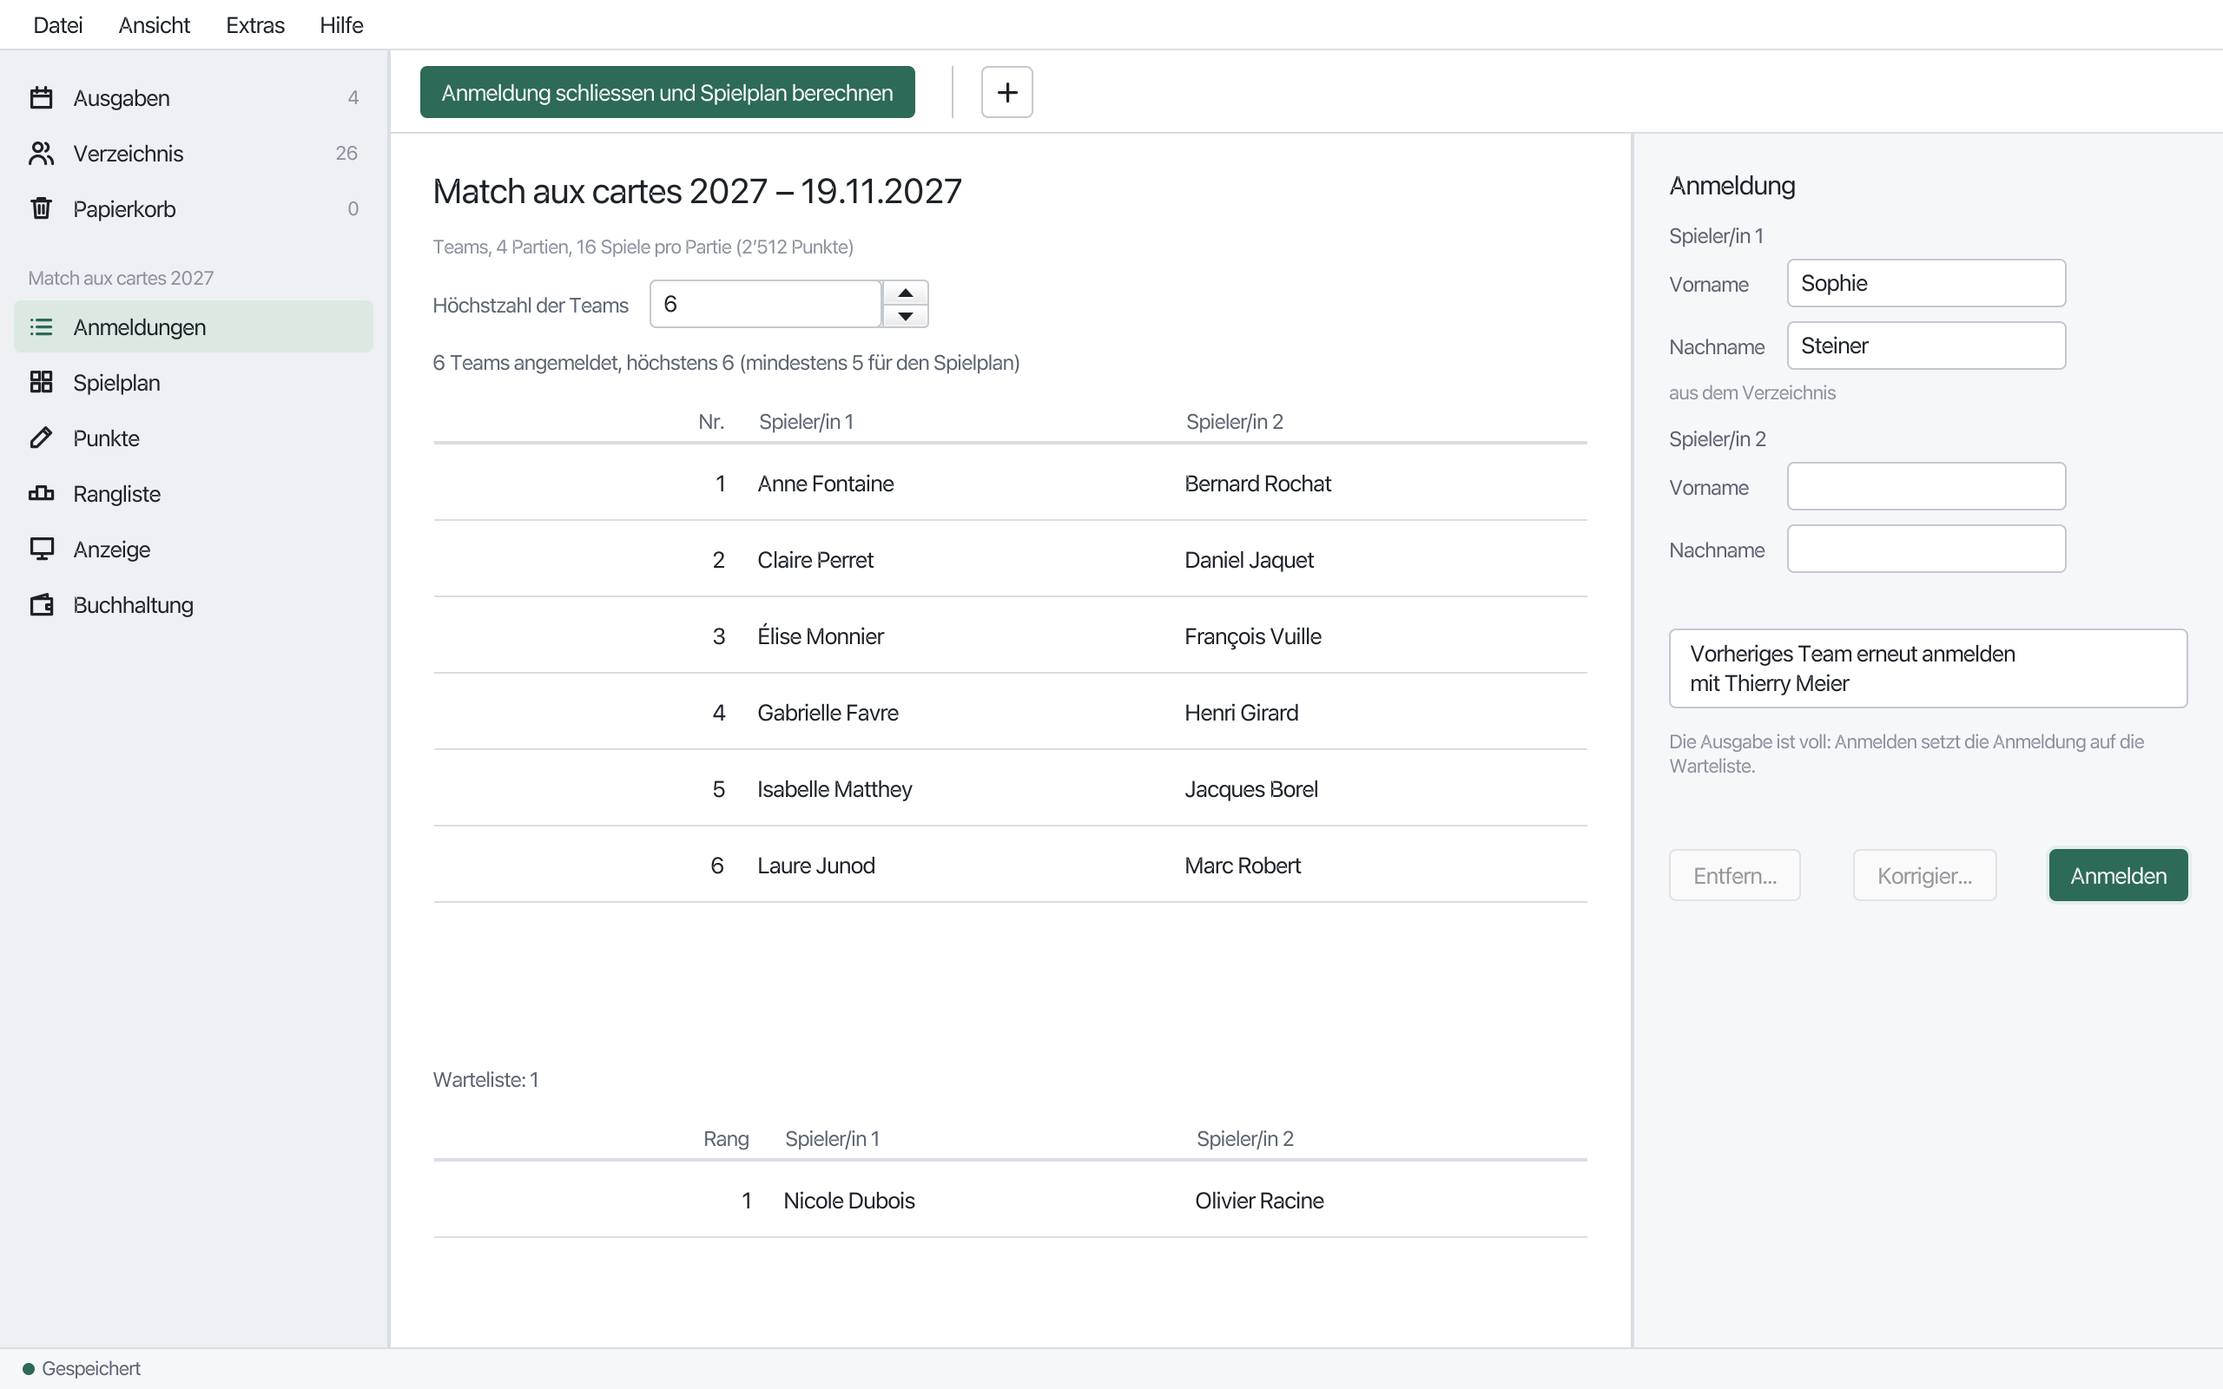
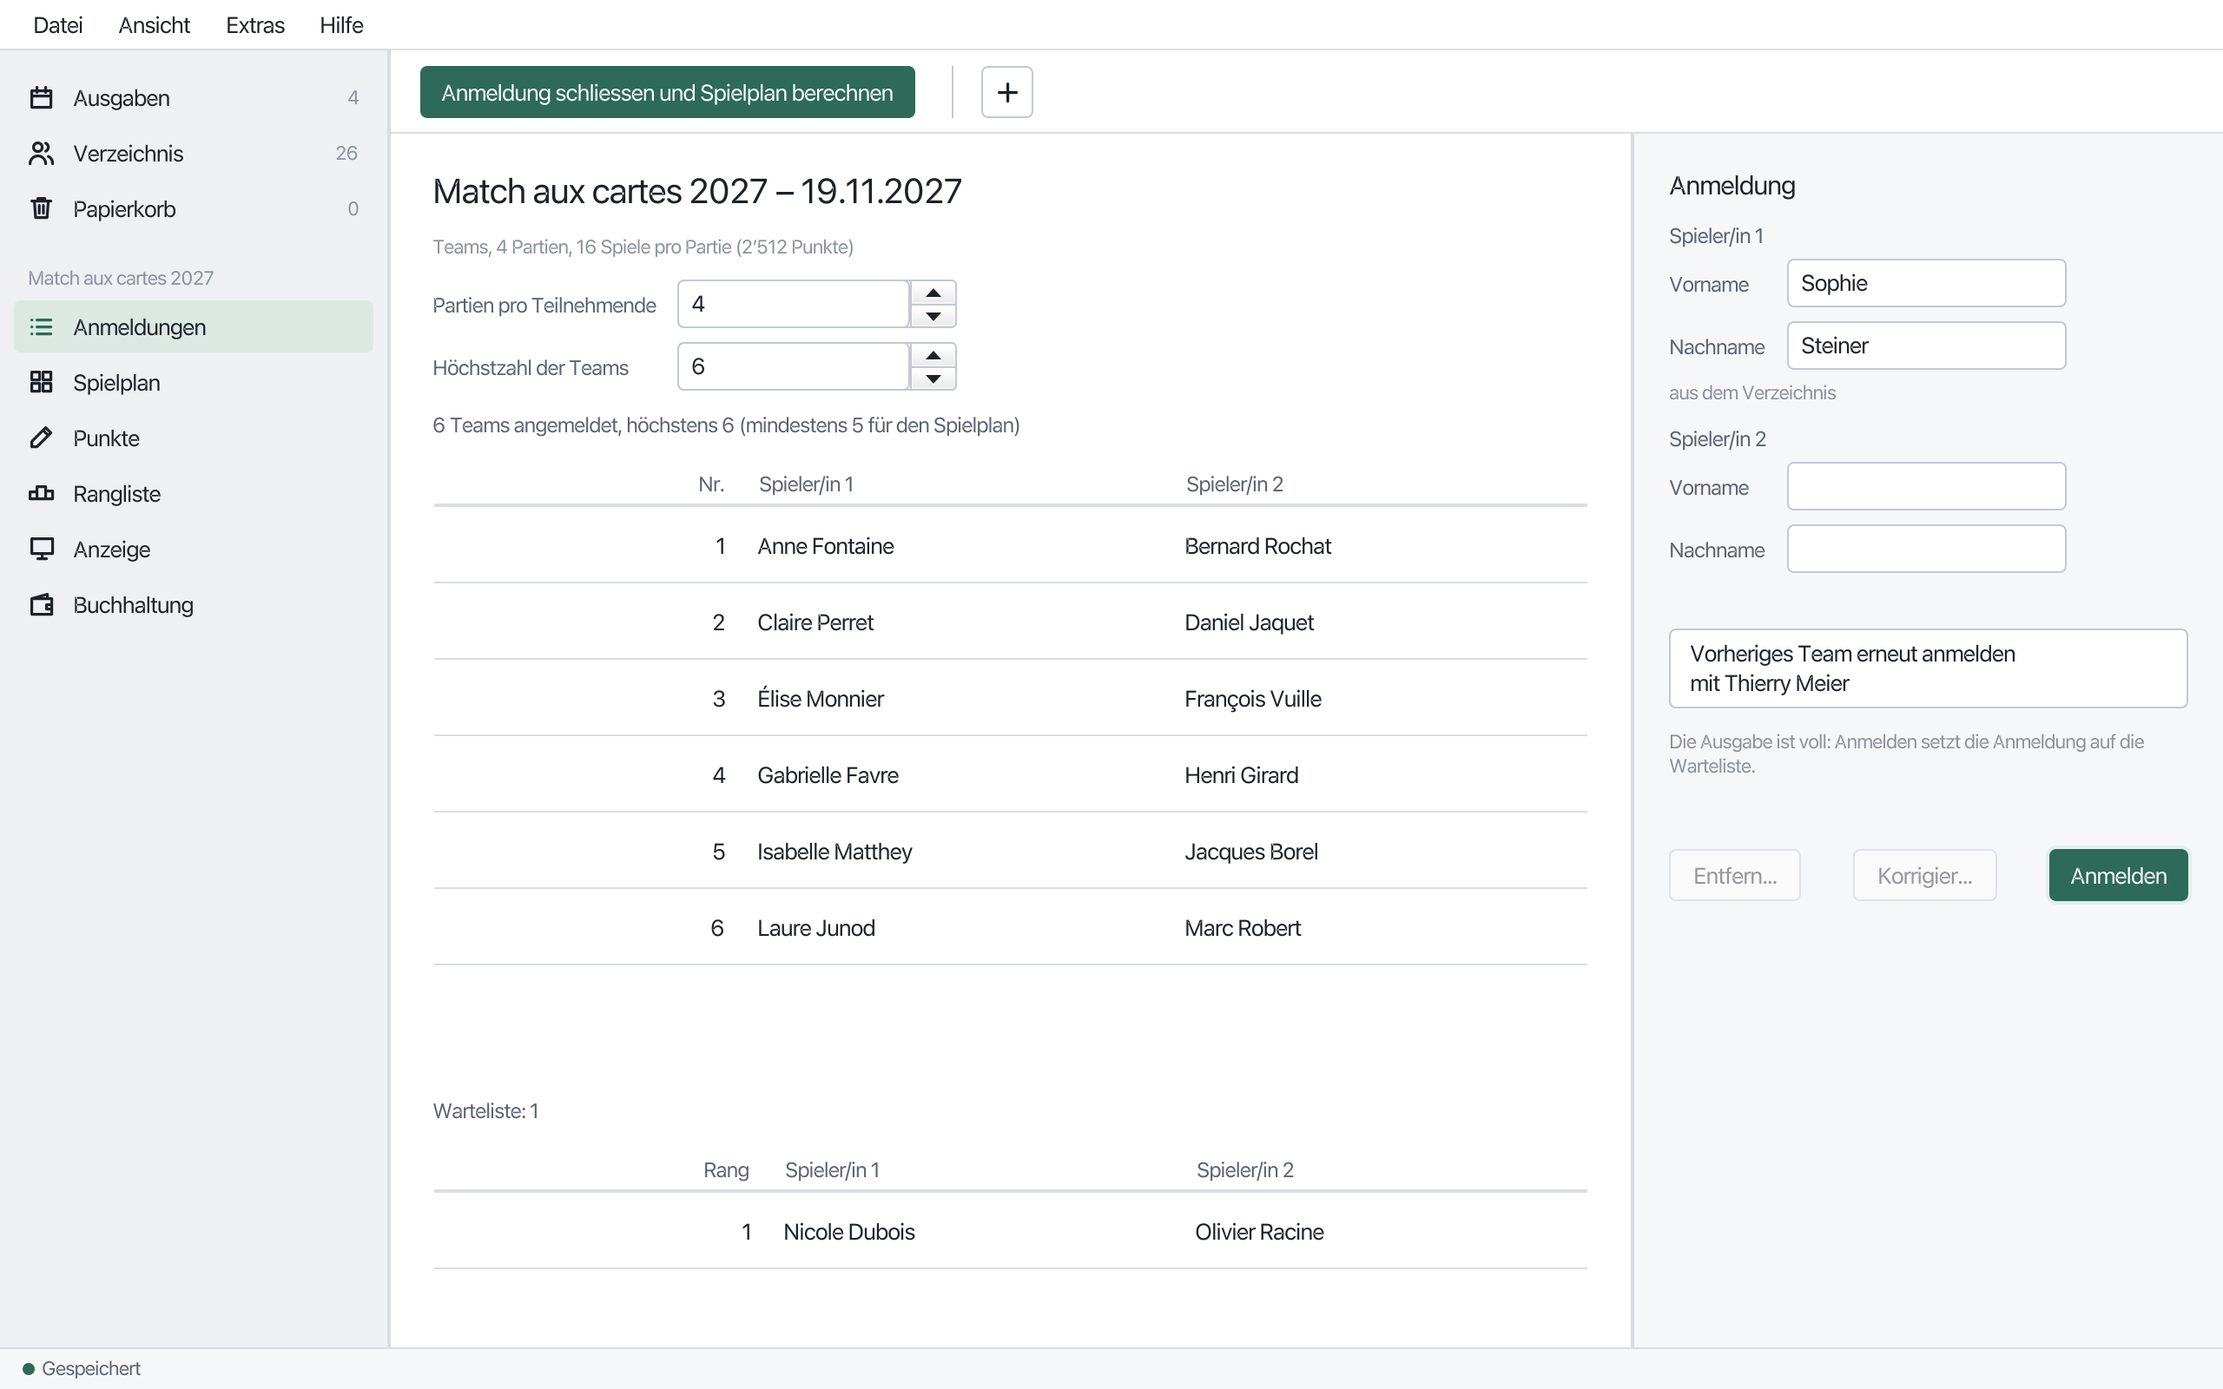
Update from the reference repository

diff --git a/src/main/java/ch/varani/jass/app/RegistrationController.java b/src/main/java/ch/varani/jass/app/RegistrationController.java
@@ -64,6 +64,11 @@ import java.util.stream.Stream;
  * since is marked too: selecting it says so, and it cannot be corrected until the person is replaced (it can still be
  * removed). Shortcut+S registers the entry: it corrects the selected registration, or adds a new one.</p>
  *
+ * <p><b>Games</b>: the number of games of each participant is changed while the registration is open, in place, like
+ * the maximum of teams ({@link Edition#withGames(int)}), e.g. to correct an edition created with a wrong number,
+ * without typing its registrations again; the minimum of registrations needed by the schedule follows it. Once the
+ * schedule is computed, the registration must be reopened first.</p>
+ *
  * <p><b>Maximum and waiting list</b>: the maximum of teams of the edition is changed while the registration is open,
  * in place ({@link MainController#update(MainController.OpenEdition)}), so that the field keeps the focus; the
  * participants move between the registrations and the waiting list ({@link Edition#withMaxTeams(int)}). A new
@@ -110,7 +115,7 @@ final class RegistrationController {
 
   /** The main window. */
   private final MainController main;
-  /** The open edition; changed in place by the maximum of teams. */
+  /** The open edition; changed in place by the number of games and the maximum of teams. */
   private MainController.OpenEdition open;
   /** The players being registered: two in team mode, one in individual mode. */
   private final List<PlayerSlot> slots = new ArrayList<>();
@@ -136,6 +141,9 @@ final class RegistrationController {
   /** The registered teams or players, by number. */
   @FXML
   private TableView<Integer> table;
+  /** The number of games of each participant. */
+  @FXML
+  private Spinner<Integer> gamesSpinner;
   /** The maximum number of teams. */
   @FXML
   private Spinner<Integer> maxSpinner;
@@ -290,6 +298,10 @@ final class RegistrationController {
       }
       select(after, true);
     });
+    gamesSpinner.setValueFactory(new SpinnerValueFactory.IntegerSpinnerValueFactory(1, EditionFormController.MAX_GAMES,
+                                                                                    edition.games()));
+    gamesSpinner.setDisable(edition.isScheduled());
+    gamesSpinner.valueProperty().addListener((property, before, after) -> changeGames(after));
     maxSpinner.setValueFactory(new SpinnerValueFactory.IntegerSpinnerValueFactory(1, MAX_TEAMS, edition.maxTeams()));
     maxSpinner.setDisable(edition.isScheduled());
     maxSpinner.valueProperty().addListener((property, before, after) -> changeMax(after));
@@ -726,6 +738,19 @@ final class RegistrationController {
     final Set<Integer> selected = Set.of(table.getSelectionModel().getSelectedItem());
     main.exportDocument("document.sheets", open.edition(),
                         (edition, options, out) -> ScoreSheetsDocument.write(edition, options, selected, out));
+  }
+
+  /**
+   * Changes the number of games of each participant in place, while the registration is open: the settings and the
+   * minimum of registrations follow it, and the field keeps the focus.
+   *
+   * @param value the new number of games.
+   */
+  private void changeGames(final int value) {
+    open = new MainController.OpenEdition(open.id(), open.edition().withGames(value));
+    main.update(open);
+    settings.setText(main.describe(open.edition()));
+    showLists();
   }
 
   /**

diff --git a/src/test/java/ch/varani/jass/app/RegistrationTest.java b/src/test/java/ch/varani/jass/app/RegistrationTest.java
@@ -642,6 +642,7 @@ final class RegistrationTest {
         () -> assertTrue(disabled(robot, "reopenButton")),
         () -> assertTrue(robot.lookup("#full").query().isVisible()),
         () -> assertTrue(disabled(robot, "maxSpinner")),
+        () -> assertTrue(disabled(robot, "gamesSpinner")),
         () -> assertFalse(robot.lookup("#solveButton").query().isVisible()),
         () -> assertFalse(robot.lookup("#removeButton").query().isVisible()),
         () -> assertTrue(scored),
@@ -731,6 +732,32 @@ final class RegistrationTest {
         () -> assertEquals(List.of("Claire2 Dubois", "Claire3 Dubois"),
                            List.of(cell(robot, 0, 1), cell(robot, 1, 1))),
         () -> assertEquals(0, saved("Match prêt").registrations().waitingSize()));
+  }
+
+  /**
+   * Games: the number of games is changed in place while the registration is open, e.g. after a mistake in the form
+   * of the edition; the settings, the minimum of registrations and the closing of the registration follow it.
+   *
+   * @param robot the TestFX robot.
+   *
+   * @throws Exception never.
+   */
+  @Test
+  @DisplayName("Games: the number of games is changed during the registration, the registrations are kept")
+  void gamesTest(final FxRobot robot) throws Exception {
+    open(robot, "Match prêt");
+    final boolean ready = !disabled(robot, "solveButton");
+    @SuppressWarnings("unchecked")
+    final Spinner<Integer> games = robot.lookup("#gamesSpinner").queryAs(Spinner.class);
+    robot.interact(() -> games.getValueFactory().setValue(GAMES + 2));
+    await(() -> saved("Match prêt").games() == GAMES + 2);
+    assertAll(
+        () -> assertTrue(ready),
+        () -> assertTrue(disabled(robot, "solveButton")),
+        () -> assertTrue(text(robot, "settings").startsWith("Équipes, 4 parties, 16 donnes par partie")),
+        () -> assertEquals("3 équipes inscrites sur 20 au plus (au moins 5 pour calculer les rencontres)",
+                           text(robot, "count")),
+        () -> assertEquals(GAMES + 1, saved("Match prêt").registrations().size()));
   }
 
   /**

diff --git a/README.md b/README.md
@@ -39,7 +39,7 @@ saved, the selection and the notices.
 | Side navigation | Editions, Directory and Trash, with their counts; while an edition is open, its name and its parts: Registration, Schedule, Scores, Ranking, Display and Accounting. |
 | Editions (start view) | The editions, the most recent first, with their mode, number of registrations, number of participants on the waiting list, maximum of teams and date; unreadable files reported; new edition (primary action), open (button, double click or Enter), duplicate (same mode, games, plan of the deals and fee), import, move to the trash (button or Delete). Without edition, the view says how to create one. |
 | New or duplicated edition | Name, date, mode (teams or individual), games per participant, content of the games deal by deal (♥ ♣ ♦ ♠ imposed trumps, _Schieber_, _Kreuz_, forced trump), plan of the regulation, blocks of 4 deals added or removed; the reason why the edition cannot be created yet is shown. |
-| Registration | Name, date and settings of the edition; the maximum number of teams (20 by default, twice as many players in individual mode), changed while the registration is open; the registered participants, with their count and the maximum; the waiting list under them, first in, first out, once the edition is full or the schedule computed (a note in the detail panel says so): a waiting participant is corrected or removed, lowering the maximum moves the last registered participants to the head of the waiting list, raising it or removing a registered participant registers the first ones waiting; in the detail panel, the players typed or chosen among the persons of the directory (up to 8 proposals, never the deceased nor the persons already registered in the edition), the previous team mate proposed, new persons added to the directory; Shortcut+S registers the entry (corrects the selected registration, or adds a new one); correction and removal (button or Delete) of a registration; the registrations whose players were corrected in the directory since are marked (warning colour and icon), and Correct takes the corrected names; a deceased person cannot be registered: typing their names asks whether it is another person (a homonym, then added to the directory), and a registration whose player was declared deceased since is marked and cannot be corrected until the person is replaced. Closing the registration (primary action) computes the schedule in the background, with a progress bar (time spent out of the time limit of the solver, updated each second) and cancellation, or tells why no schedule exists; the registration can be reopened while no score is entered. Once the schedule is computed, a participant who withdraws is replaced, after confirmation, by the first one waiting or by the entry, as long as no result of its games is entered: the new participant takes its number and its places, the schedule is kept; its score card and the score sheets of its games are then exported alone. |
+| Registration | Name, date and settings of the edition; the number of games per participant (e.g. to correct an edition created with a wrong number, the registrations kept) and the maximum number of teams (20 by default, twice as many players in individual mode), changed while the registration is open; the registered participants, with their count and the maximum; the waiting list under them, first in, first out, once the edition is full or the schedule computed (a note in the detail panel says so): a waiting participant is corrected or removed, lowering the maximum moves the last registered participants to the head of the waiting list, raising it or removing a registered participant registers the first ones waiting; in the detail panel, the players typed or chosen among the persons of the directory (up to 8 proposals, never the deceased nor the persons already registered in the edition), the previous team mate proposed, new persons added to the directory; Shortcut+S registers the entry (corrects the selected registration, or adds a new one); correction and removal (button or Delete) of a registration; the registrations whose players were corrected in the directory since are marked (warning colour and icon), and Correct takes the corrected names; a deceased person cannot be registered: typing their names asks whether it is another person (a homonym, then added to the directory), and a registration whose player was declared deceased since is marked and cannot be corrected until the person is replaced. Closing the registration (primary action) computes the schedule in the background, with a progress bar (time spent out of the time limit of the solver, updated each second) and cancellation, or tells why no schedule exists; the registration can be reopened while no score is entered. Once the schedule is computed, a participant who withdraws is replaced, after confirmation, by the first one waiting or by the entry, as long as no result of its games is entered: the new participant takes its number and its places, the schedule is kept; its score card and the score sheets of its games are then exported alone. |
 | Schedule | Each round with its tables, places, giver and receiver, and the participants sitting out; export of the schedule, the places, the score cards and the score sheets as PDF. Before the closing of the registration, the view says so and leads to the registration. |
 | Scores | The games of the schedule with their sides and results, and the count of the games with a result; in the detail panel, the score sheet of the selected game as the paper sheet: column A (the side at the odd place, which deals first) and column B, one line per deal of the plan with its type, a subtotal per block of 4 deals, the totals, the rule 16 deduction and the points counted in the ranking. Column A is typed and column B derived (`157 − A`, shown in grey) until it is typed; a value is taken on Enter (which moves to the next deal) or when the field is left, and saved at once; Up and Down move between the deals; a value that is not a number between 0 and 157 is rejected; the deals whose columns do not make 157 points are highlighted and listed, and their game is marked in the list (warning colour and icon). A side can be marked absent (rule 19: forfeit). The sheet is cleared after confirmation (button or Delete); Enter in the list moves to the sheet; the tool of the toolbar goes to the next game without result. |
 | Ranking | Computed from the results each time it is shown: provisional (with the number of games with a result), ties to break, or final; rank, number, participant (its players, without its number), points of every game, total and number of games. Drawing of lots of the ties (primary action, rule 15) once every game has a result, which closes the match: the score sheets and the exclusions can no longer be changed until the draw is cancelled (after confirmation); exclusion of the selected participant for cheating (rule 17) after confirmation, and its cancellation. |

diff --git a/guide/de.md b/guide/de.md
@@ -191,6 +191,10 @@ Person (sie kann jederzeit entfernt werden).
 Die Zahl der Anmeldungen wird angezeigt, mit der Höchstzahl und dem nötigen Minimum für den Spielplan (zum Beispiel
 5 Teams für 4 Partien).
 
+Die **Partien pro Teilnehmende** werden oberhalb der Liste geändert, solange die Anmeldung offen ist, zum Beispiel um
+einen Fehler beim Erstellen der Ausgabe zu korrigieren: Die Anmeldungen bleiben erhalten, und das Minimum folgt der
+neuen Zahl. Ist der Spielplan berechnet, wählen Sie zuerst **Anmeldung wieder öffnen**.
+
 Der Spielplan wird aus den Teams berechnet, die beim Schliessen der Anmeldung angemeldet sind: siehe
 [Den Spielplan berechnen](#7-den-spielplan-berechnen-und-die-dokumente-drucken).
 

diff --git a/guide/en.md b/guide/en.md
@@ -182,6 +182,10 @@ marked _Person deceased in the directory_: to correct it, replace this person (i
 The number of registrations is shown, with the maximum and the minimum needed to compute the schedule (for instance
 5 teams for 4 games).
 
+The **Games per participant** are changed above the list while the registration is open, for instance to correct a
+mistake made when creating the edition: the registrations are kept and the minimum follows the new number. Once the
+schedule is computed, choose **Reopen the registration** first.
+
 The schedule is computed from the teams registered when the registration is closed: see
 [Compute the schedule](#7-compute-the-schedule-and-print-the-documents).
 

diff --git a/guide/it.md b/guide/it.md
@@ -188,6 +188,10 @@ tolta).
 È indicato il numero di iscritti, con il massimo e il minimo necessario per calcolare gli incontri (per esempio
 5 squadre per 4 partite).
 
+Le **Partite per partecipante** si cambiano sopra la lista finché le iscrizioni sono aperte, per esempio per
+correggere un errore fatto creando l’edizione: le iscrizioni sono conservate e il minimo segue il nuovo numero. Una
+volta calcolati gli incontri, scegliete prima **Riaprire le iscrizioni**.
+
 Gli incontri sono calcolati sulle squadre iscritte al momento della chiusura delle iscrizioni: vedere
 [Calcolare gli incontri](#7-calcolare-gli-incontri-e-stampare-i-documenti).
 

diff --git a/changelog.md b/changelog.md
@@ -2,6 +2,13 @@
 
 All notable changes of the project are documented in this file.
 
+## [Unreleased]
+
+### Added
+- **Registration**: the number of games per participant is changed in the registration while it is open, like the
+  maximum of teams, e.g. to correct an edition created with a wrong number of games without typing its registrations
+  again; the minimum of registrations needed by the schedule follows it.
+
 ## [1.1.0] – 2026-10-13
 
 ### Added
